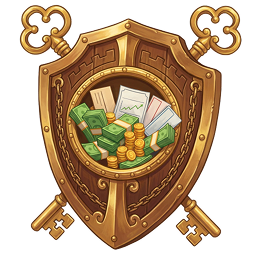
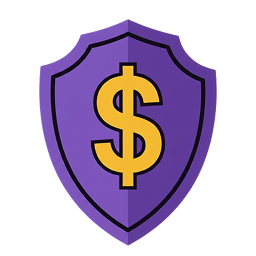
Gameplay changes

diff --git a/src/config/tuning.ts b/src/config/tuning.ts
@@ -162,9 +162,9 @@ export const ASSETS_BAR_UI = {
   depth: 55,
   icon: {
     key: "icon-briefcase",
-    sizePx: 40,
-    xOffset: 8,
-    yOffset: 13,
+    sizePx: 45,
+    xOffset: 6,
+    yOffset: 6,
     depth: 57,
   },
   resizeTween: {
@@ -189,8 +189,8 @@ export const SHIELD_ENERGY_BAR_UI = {
   depth: 55,
   icon: {
     key: "icon-shield",
-    sizePx: 40,
-    xOffset: 8,
+    sizePx: 45,
+    xOffset: 4,
     yOffset: 13,
     depth: 57,
   },
@@ -245,8 +245,8 @@ export const TOP_PROGRESS_BAR_CONFIG = {
   master: {
     scaleX: 1.1,
     scaleY: 1.1,
-    offsetX: -4,
-    offsetY: 10,
+    offsetX: -30,
+    offsetY: 25,
   },
   bar: {
     width: 272,
@@ -427,22 +427,22 @@ export const RESULT_SCREEN_UI = {
   distanceYRatio: 0.32,
   tableTopYRatio: 0.38,
   tableWidthRatio: 1,
-  tableHeightPx: 304,
-  tableRowHeightPx: 74,
+  tableHeightPx: 450,
+  tableRowHeightPx: 150,
   totalYRatio: 0.76,
   noteYRatio: 0.83,
   buttonYRatio: 0.92,
-  titleFontSizePx: 78,
-  subtitleFontSizePx: 56,
-  bodyFontSizePx: 66,
-  cellHeaderFontSizePx: 52,
-  cellValueFontSizePx: 54,
-  smallFontSizePx: 46,
+  titleFontSizePx: 64,
+  subtitleFontSizePx: 52,
+  bodyFontSizePx: 62,
+  cellHeaderFontSizePx: 48,
+  cellValueFontSizePx: 48,
+  smallFontSizePx: 38,
   buttonFontSizePx: 68,
   buttonPaddingX: 120,
   buttonPaddingY: 22,
   buttonLabel: "ОТЛИЧНО",
-  fontFamily: "Fascinate",
+  fontFamily: "Fascinate, Arial, sans-serif",
   titleColor: "#e8f1f2",
   bodyColor: "#e8f1f2",
   successColor: "#33ff42",
@@ -455,15 +455,15 @@ export const RESULT_SCREEN_UI = {
 
 export const INTRO_ONBOARDING_UI = {
   dimAlpha: 0.35,
-  windowYRatio: 0.40,
+  windowYRatio: 0.46,
   windowMaxWidthRatio: 0.94,
   windowMaxHeightRatio: 0.92,
   windowMinScale: 0.35,
   windowMaxScale: 2.2,
   windowDepth: 10,
-  continueText: "НАЖМИТЕ ДЛЯ\nПРОДОЛЖЕНИЯ",
+  continueText: "НАЖМИТЕ ДЛЯ ПРОДОЛЖЕНИЯ",
   continueFontFamily: "Fascinate",
-  continueFontSizePx: 56,
+  continueFontSizePx: 48,
   continueColor: "#ffffff",
   continueAlpha: 0.68,
   continueBottomInsetPx: 62,

diff --git a/src/scenes/IntroScene.ts b/src/scenes/IntroScene.ts
@@ -5,6 +5,9 @@ export default class IntroScene extends Phaser.Scene {
   private continueText?: Phaser.GameObjects.Text;
   private continuePulsePhase = 0;
   private isStartingGame = false;
+  private readonly onIntroPointerDown = () => {
+    this.startGame();
+  };
 
   constructor() {
     super("Intro");
@@ -13,6 +16,8 @@ export default class IntroScene extends Phaser.Scene {
   create() {
     const { width, height } = this.scale;
     const uiScale = Phaser.Math.Clamp(Math.min(width / 864, height / 1536), 0.46, 1);
+    this.isStartingGame = false;
+    this.continuePulsePhase = 0;
     this.input.enabled = true;
 
     const bg = this.add.image(width / 2, height / 2, "start-bg");
@@ -51,9 +56,8 @@ export default class IntroScene extends Phaser.Scene {
       .setDepth(INTRO_ONBOARDING_UI.continueDepth)
       .setAlpha(INTRO_ONBOARDING_UI.continueAlpha);
 
-    this.input.once("pointerdown", () => {
-      this.startGame();
-    });
+    this.input.off("pointerdown", this.onIntroPointerDown, this);
+    this.input.once("pointerdown", this.onIntroPointerDown, this);
   }
 
   update(_time: number, delta: number) {

diff --git a/src/scenes/ResultScene.ts b/src/scenes/ResultScene.ts
@@ -24,7 +24,7 @@ export default class ResultScene extends Phaser.Scene {
   create(data?: ResultPayload) {
     const { width, height } = this.scale;
     const cfg = RESULT_SCREEN_UI;
-    const uiScale = Phaser.Math.Clamp(Math.min(width / 864, height / 1536), 0.46, 1);
+    const uiScale = Phaser.Math.Clamp(Math.min(width / 864, height / 1536), 0.38, 1);
     const scaled = (value: number) => Math.max(1, Math.round(value * uiScale));
 
     this.add.rectangle(0, 0, width, height, cfg.panelColor).setOrigin(0, 0);
